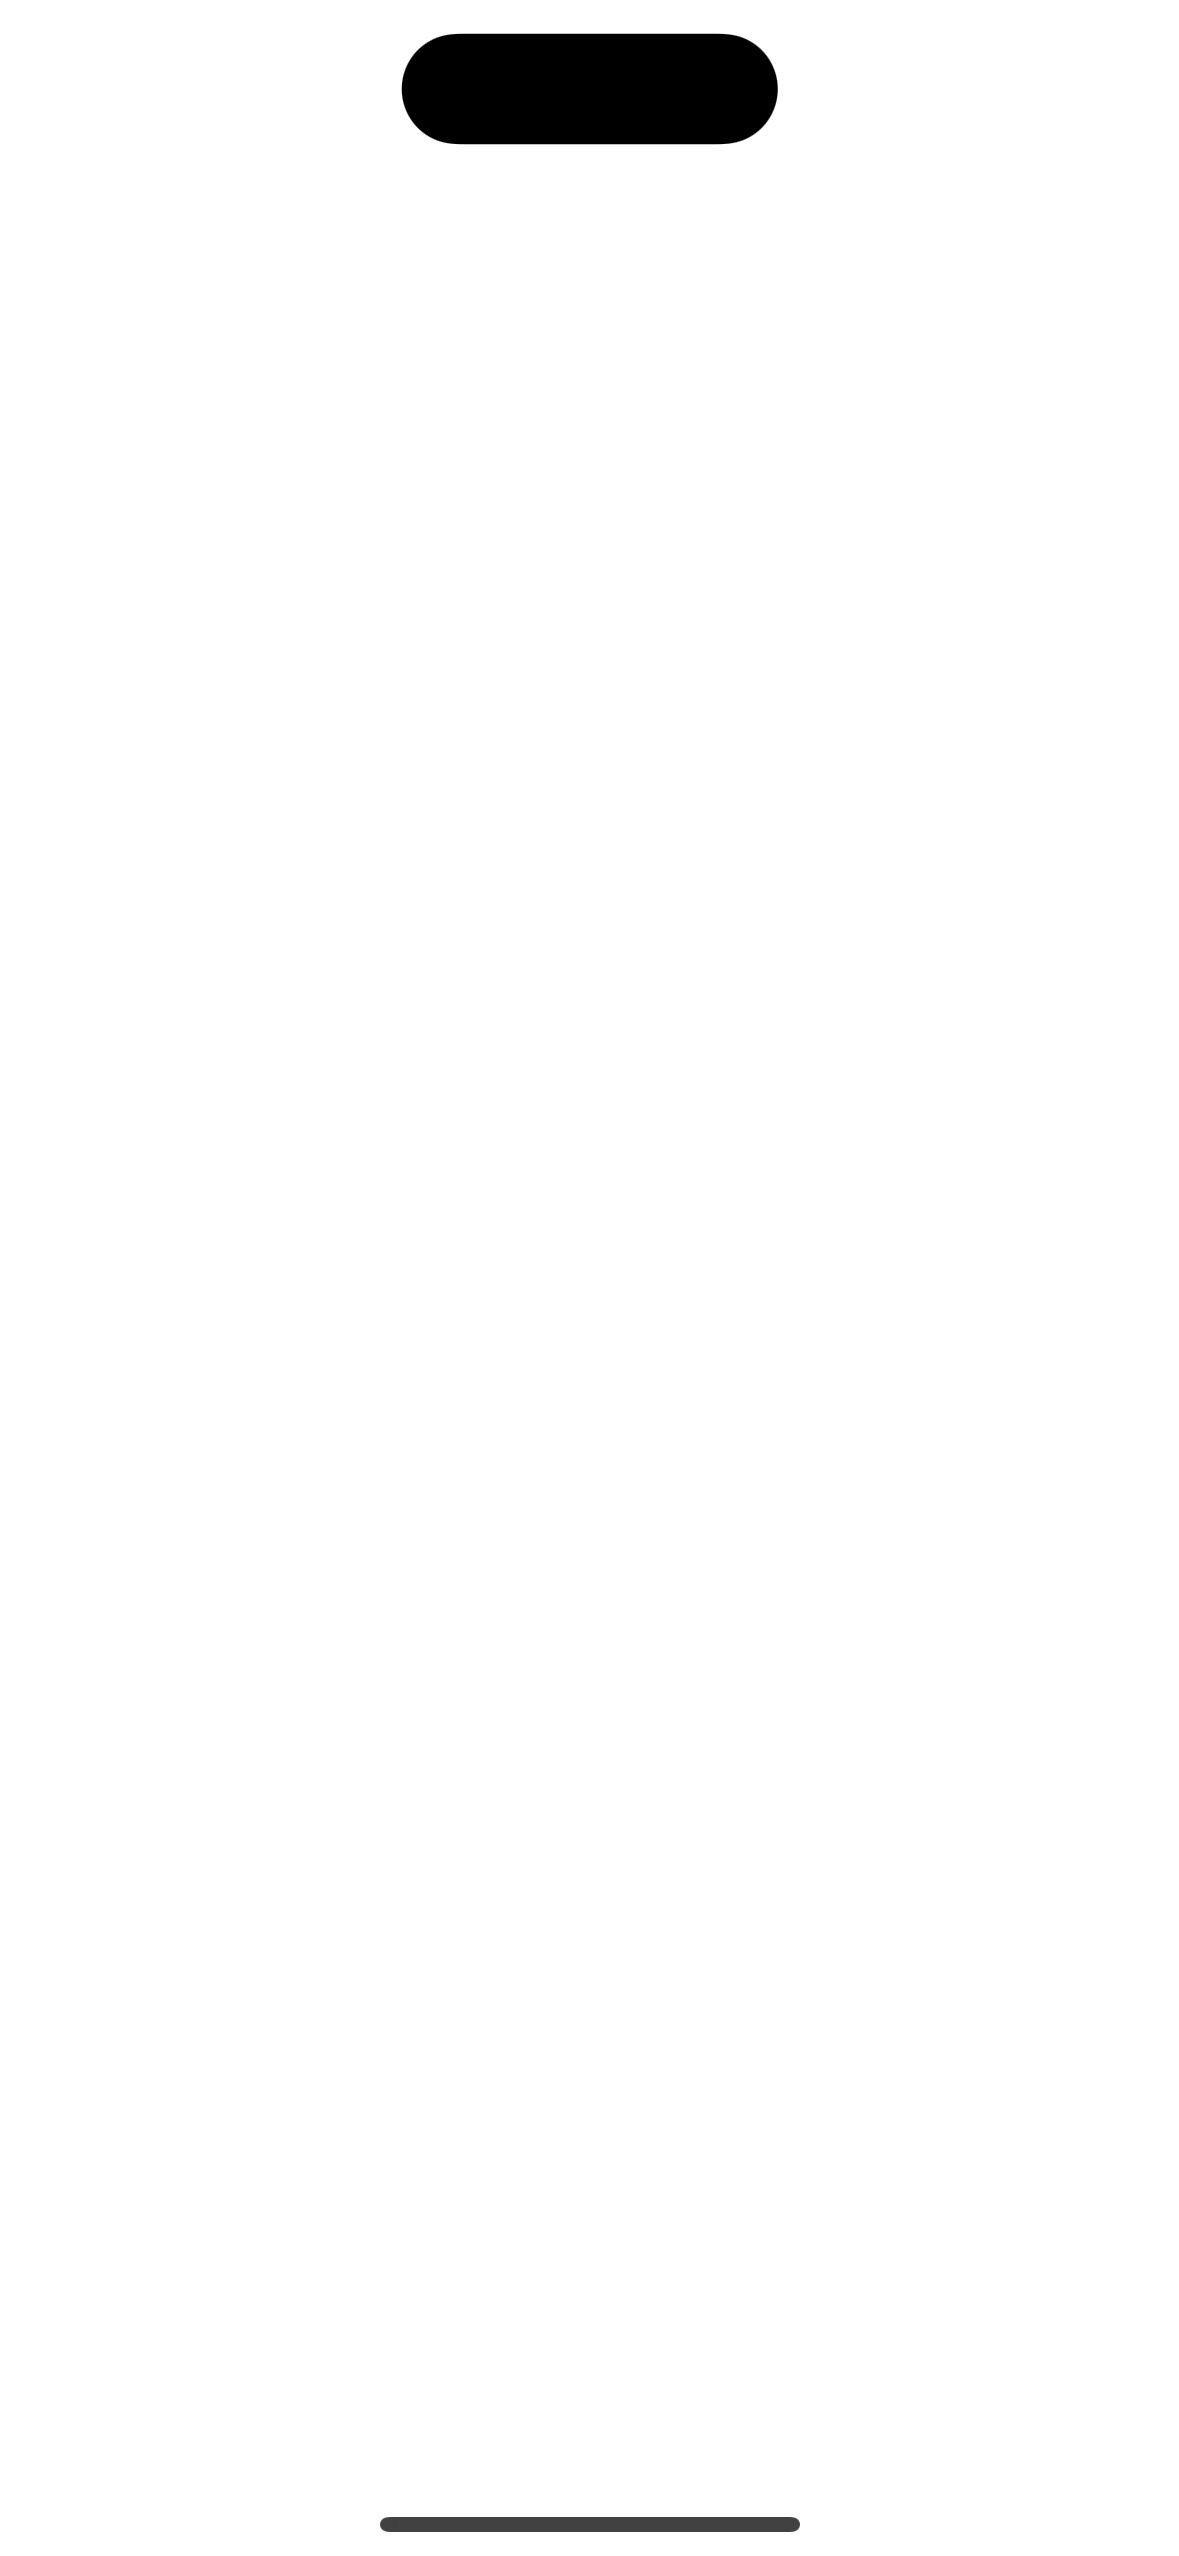
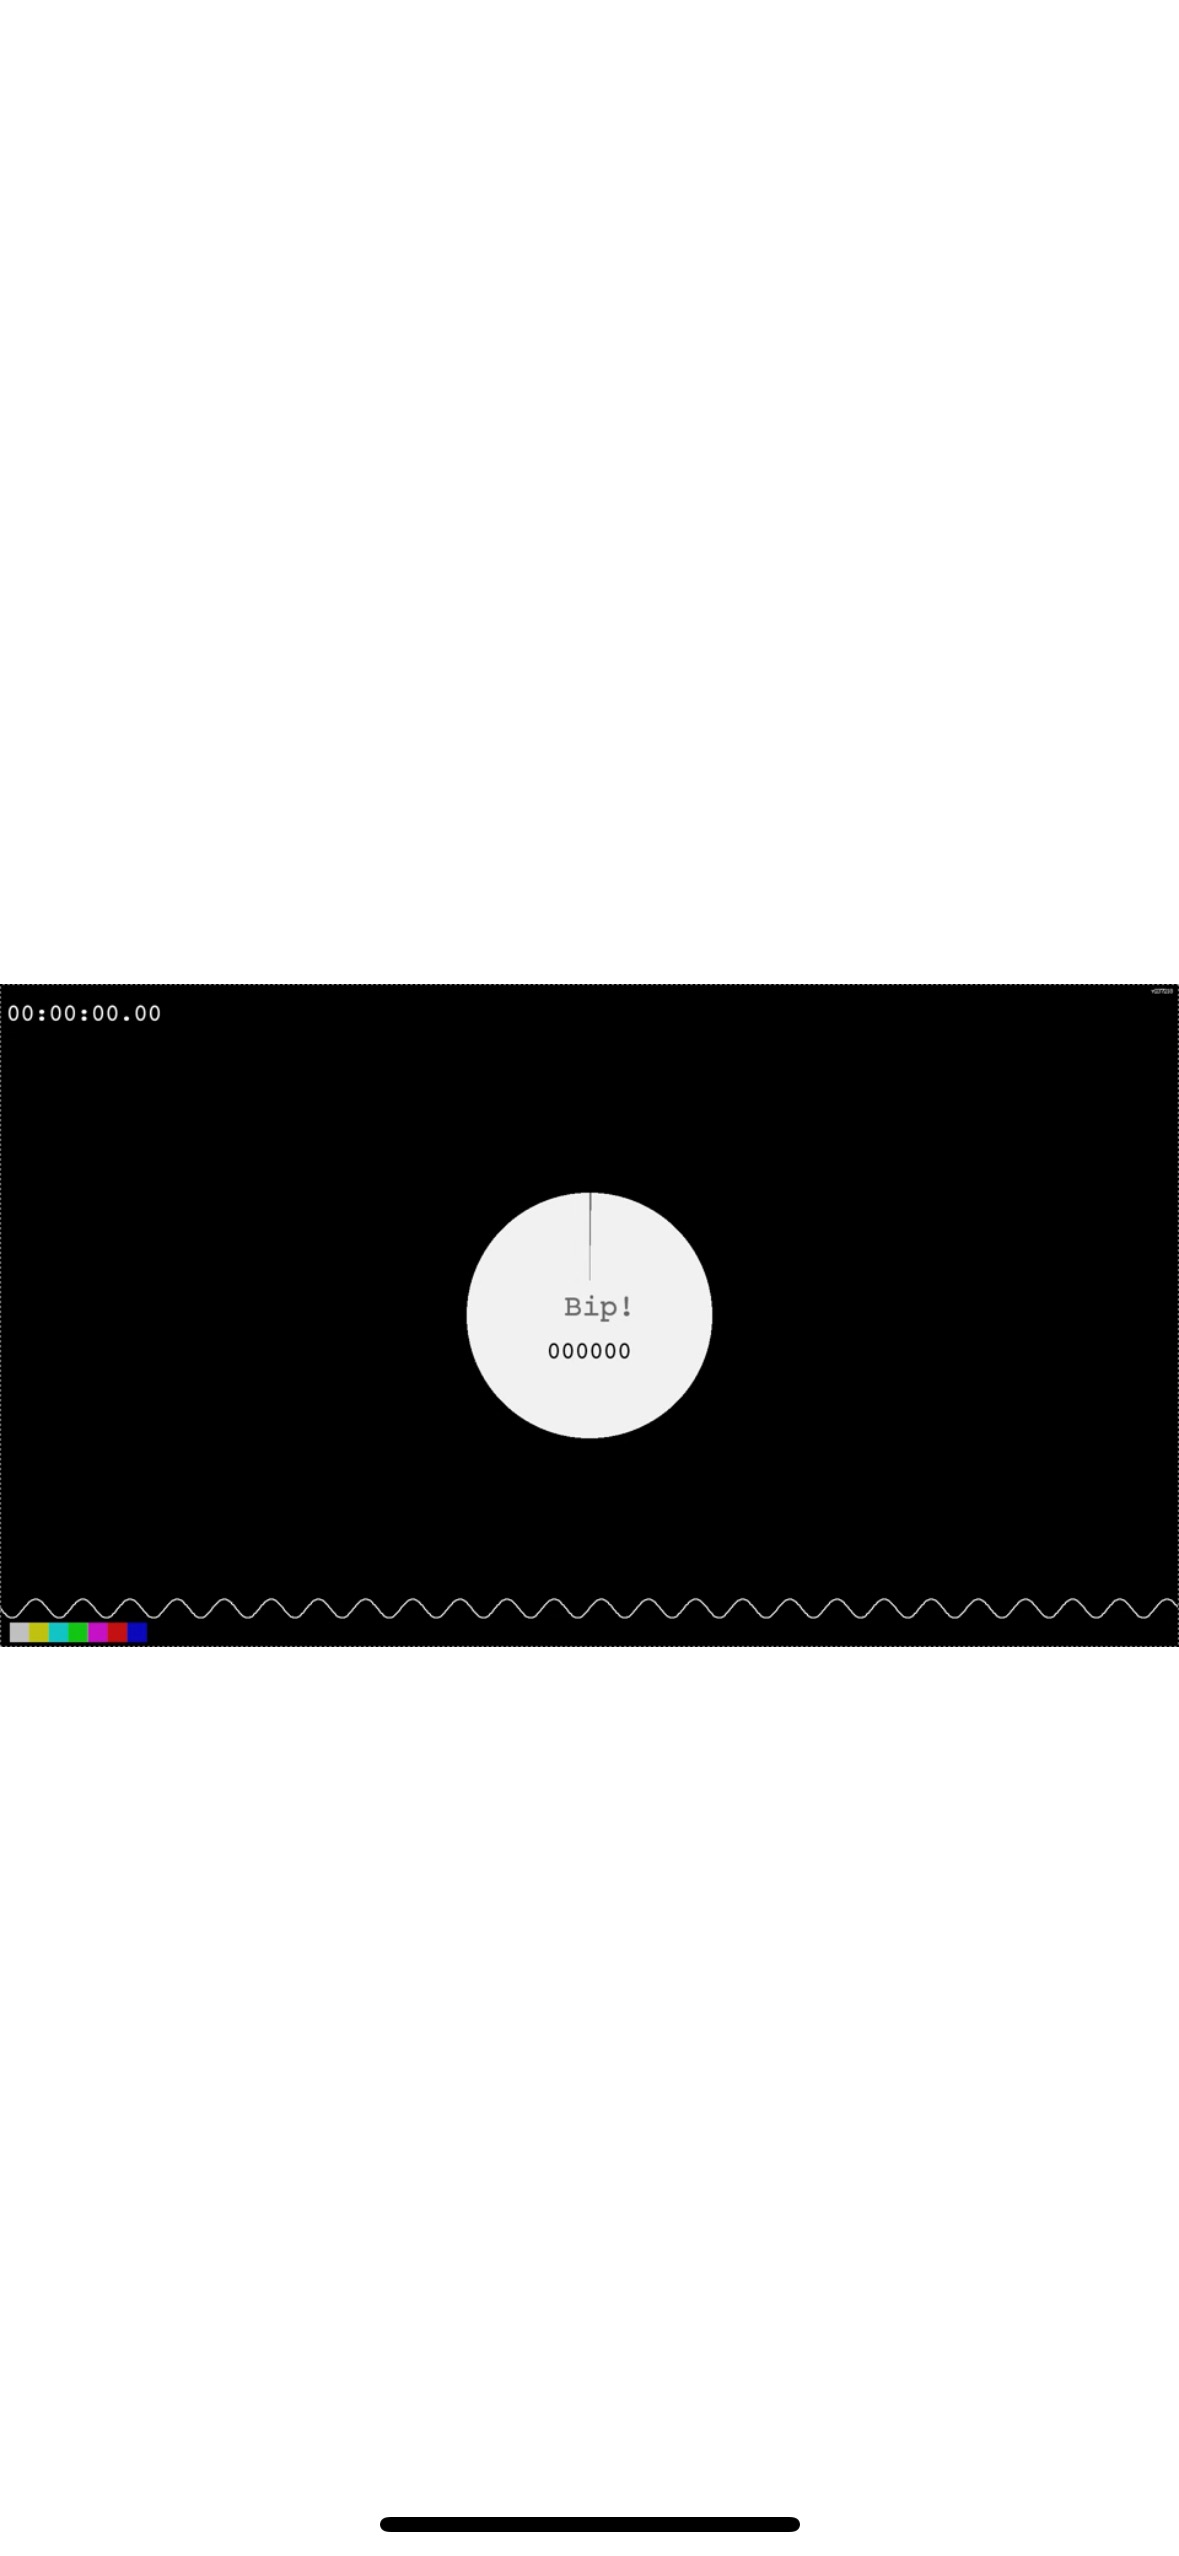
Update basic user interface tutorial

Changed region(s): [[0.0, 0.3709, 1.0, 0.6491], [0.3359, 0.9581, 0.6718, 1.0], [0.3359, 0.0, 0.6718, 0.0618]]

diff --git a/Sources/Player/Player.docc/Tutorials/creating-basic-user-interface/creating-basic-user-interface-2-3.swift b/Sources/Player/Player.docc/Tutorials/creating-basic-user-interface/creating-basic-user-interface-2-3.swift
@@ -3,26 +3,45 @@ import SwiftUI
 
 struct ContentView: View {
     @StateObject private var player = Player(
-        item: .simple(url: URL(string: "https://devstreaming-cdn.apple.com/videos/streaming/examples/img_bipbop_adv_example_ts/master.m3u8")!)
+        item: .simple(url: URL(string: "https://devstreaming-cdn.apple.com/videos/streaming/examples/img_bipbop_adv_example_ts/master.m3u8")!),
+        configuration: .init(backwardSkipInterval: 5, forwardSkipInterval: 15)
     )
 
     var body: some View {
         ZStack {
             VideoView(player: player)
             HStack(spacing: 20) {
-                Button(action: { player.skipBackward() }) {
-                    Image(systemName: "gobackward.10")
-                        .resizable()
-                        .aspectRatio(contentMode: .fit)
-                        .frame(width: 30)
-                }
-                Button(action: player.togglePlayPause) {
-                    Image(systemName: player.shouldPlay ? "pause.circle.fill" : "play.circle.fill")
-                        .resizable()
-                        .aspectRatio(contentMode: .fit)
-                        .frame(width: 50)
-                }
+                skipBackwardButton()
+                playbackButton()
+                skipForwardButton()
             }
+        }
+    }
+
+    private func skipBackwardButton() -> some View {
+        Button(action: { player.skipBackward() }) {
+            Image(systemName: "gobackward.5")
+                .resizable()
+                .aspectRatio(contentMode: .fit)
+                .frame(width: 30)
+        }
+    }
+
+    private func playbackButton() -> some View {
+        Button(action: player.togglePlayPause) {
+            Image(systemName: player.shouldPlay ? "pause.circle.fill" : "play.circle.fill")
+                .resizable()
+                .aspectRatio(contentMode: .fit)
+                .frame(width: 50)
+        }
+    }
+
+    private func skipForwardButton() -> some View {
+        Button(action: { player.skipForward() }) {
+            Image(systemName: "goforward.15")
+                .resizable()
+                .aspectRatio(contentMode: .fit)
+                .frame(width: 30)
         }
     }
 }

diff --git a/Sources/Player/Player.docc/Tutorials/creating-basic-user-interface/creating-basic-user-interface-2-2.swift b/Sources/Player/Player.docc/Tutorials/creating-basic-user-interface/creating-basic-user-interface-2-2.swift
@@ -10,19 +10,37 @@ struct ContentView: View {
         ZStack {
             VideoView(player: player)
             HStack(spacing: 20) {
-                Button(action: {}) {
-                    Image(systemName: "gobackward.10")
-                        .resizable()
-                        .aspectRatio(contentMode: .fit)
-                        .frame(width: 30)
-                }
-                Button(action: player.togglePlayPause) {
-                    Image(systemName: player.shouldPlay ? "pause.circle.fill" : "play.circle.fill")
-                        .resizable()
-                        .aspectRatio(contentMode: .fit)
-                        .frame(width: 50)
-                }
+                skipBackwardButton()
+                playbackButton()
+                skipForwardButton()
             }
+        }
+    }
+
+    private func skipBackwardButton() -> some View {
+        Button(action: { player.skipBackward() }) {
+            Image(systemName: "gobackward.10")
+                .resizable()
+                .aspectRatio(contentMode: .fit)
+                .frame(width: 30)
+        }
+    }
+
+    private func playbackButton() -> some View {
+        Button(action: player.togglePlayPause) {
+            Image(systemName: player.shouldPlay ? "pause.circle.fill" : "play.circle.fill")
+                .resizable()
+                .aspectRatio(contentMode: .fit)
+                .frame(width: 50)
+        }
+    }
+
+    private func skipForwardButton() -> some View {
+        Button(action: { player.skipForward() }) {
+            Image(systemName: "goforward.10")
+                .resizable()
+                .aspectRatio(contentMode: .fit)
+                .frame(width: 30)
         }
     }
 }

diff --git a/Sources/Player/Player.docc/Tutorials/creating-basic-user-interface/creating-basic-user-interface-2-1.swift b/Sources/Player/Player.docc/Tutorials/creating-basic-user-interface/creating-basic-user-interface-2-1.swift
@@ -10,13 +10,27 @@ struct ContentView: View {
         ZStack {
             VideoView(player: player)
             HStack(spacing: 20) {
-                Button(action: player.togglePlayPause) {
-                    Image(systemName: player.shouldPlay ? "pause.circle.fill" : "play.circle.fill")
-                        .resizable()
-                        .aspectRatio(contentMode: .fit)
-                        .frame(width: 50)
-                }
+                skipBackwardButton()
+                playbackButton()
             }
+        }
+    }
+
+    private func skipBackwardButton() -> some View {
+        Button(action: { player.skipBackward() }) {
+            Image(systemName: "gobackward.10")
+                .resizable()
+                .aspectRatio(contentMode: .fit)
+                .frame(width: 30)
+        }
+    }
+
+    private func playbackButton() -> some View {
+        Button(action: player.togglePlayPause) {
+            Image(systemName: player.shouldPlay ? "pause.circle.fill" : "play.circle.fill")
+                .resizable()
+                .aspectRatio(contentMode: .fit)
+                .frame(width: 50)
         }
     }
 }

diff --git a/Sources/Player/Player.docc/Tutorials/creating-basic-user-interface/creating-basic-user-interface-1-5.swift b/Sources/Player/Player.docc/Tutorials/creating-basic-user-interface/creating-basic-user-interface-1-5.swift
@@ -9,12 +9,16 @@ struct ContentView: View {
     var body: some View {
         ZStack {
             VideoView(player: player)
-            Button(action: player.togglePlayPause) {
-                Image(systemName: "play.circle.fill")
-                    .resizable()
-                    .aspectRatio(contentMode: .fit)
-                    .frame(width: 50)
-            }
+            playbackButton()
+        }
+    }
+
+    private func playbackButton() -> some View {
+        Button(action: player.togglePlayPause) {
+            Image(systemName: player.shouldPlay ? "pause.circle.fill" : "play.circle.fill")
+                .resizable()
+                .aspectRatio(contentMode: .fit)
+                .frame(width: 50)
         }
     }
 }

diff --git a/Sources/Player/Player.docc/Tutorials/creating-basic-user-interface/creating-basic-user-interface-1-4.swift b/Sources/Player/Player.docc/Tutorials/creating-basic-user-interface/creating-basic-user-interface-1-4.swift
@@ -9,6 +9,16 @@ struct ContentView: View {
     var body: some View {
         ZStack {
             VideoView(player: player)
+            playbackButton()
+        }
+    }
+
+    private func playbackButton() -> some View {
+        Button(action: player.togglePlayPause) {
+            Image(systemName: "play.circle.fill")
+                .resizable()
+                .aspectRatio(contentMode: .fit)
+                .frame(width: 50)
         }
     }
 }

diff --git a/Sources/Player/Player.docc/Tutorials/creating-basic-user-interface/creating-basic-user-interface-1-2.swift b/Sources/Player/Player.docc/Tutorials/creating-basic-user-interface/creating-basic-user-interface-1-2.swift
@@ -2,8 +2,7 @@ import PillarboxPlayer
 import SwiftUI
 
 struct ContentView: View {
-    var body: some View {
-        ZStack {
-        }
-    }
+    @StateObject private var player = Player(
+        item: .simple(url: URL(string: "https://devstreaming-cdn.apple.com/videos/streaming/examples/img_bipbop_adv_example_ts/master.m3u8")!)
+    )
 }

diff --git a/Sources/Player/Player.docc/Tutorials/creating-basic-user-interface/creating-basic-user-interface-1-3.swift b/Sources/Player/Player.docc/Tutorials/creating-basic-user-interface/creating-basic-user-interface-1-3.swift
@@ -7,7 +7,6 @@ struct ContentView: View {
     )
 
     var body: some View {
-        ZStack {
-        }
+        VideoView(player: player)
     }
 }

diff --git a/Sources/Player/Player.docc/Tutorials/creating-basic-user-interface/creating-basic-user-interface-1-1.swift b/Sources/Player/Player.docc/Tutorials/creating-basic-user-interface/creating-basic-user-interface-1-1.swift
@@ -1,8 +1,5 @@
 import SwiftUI
 
 struct ContentView: View {
-    var body: some View {
-        ZStack {
-        }
-    }
+    
 }
